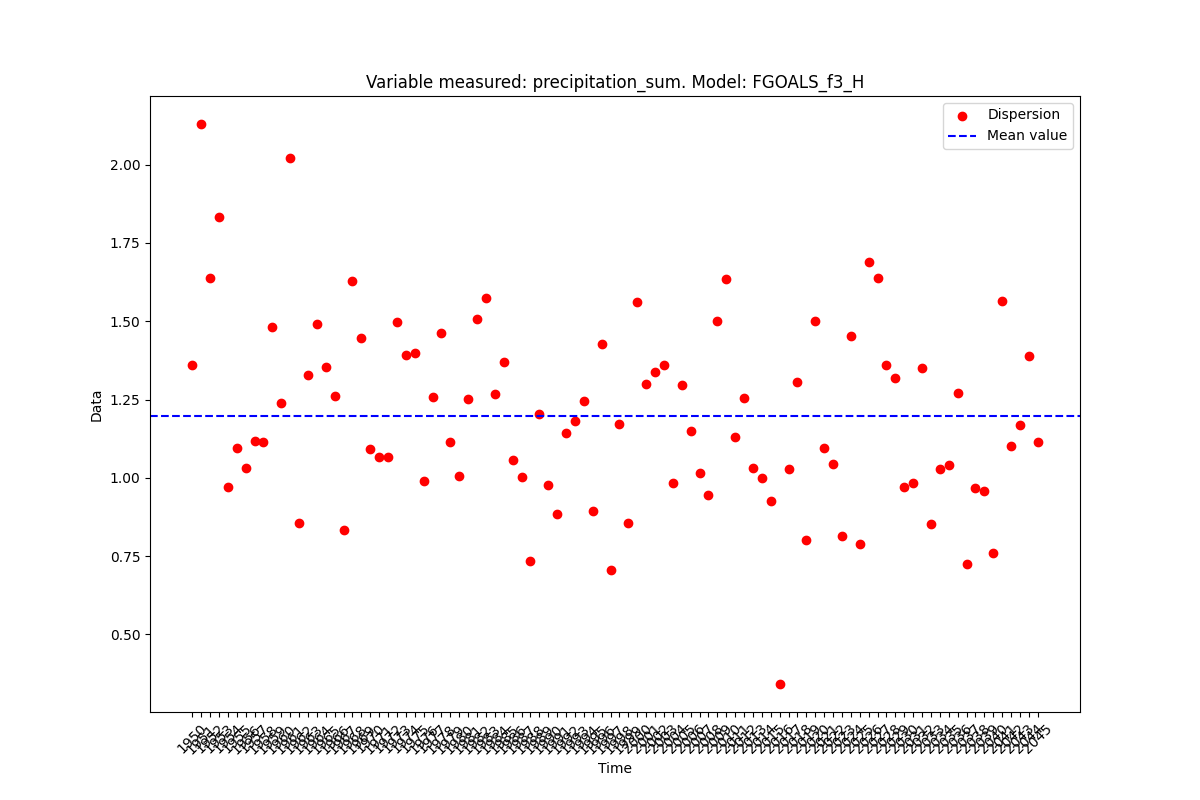
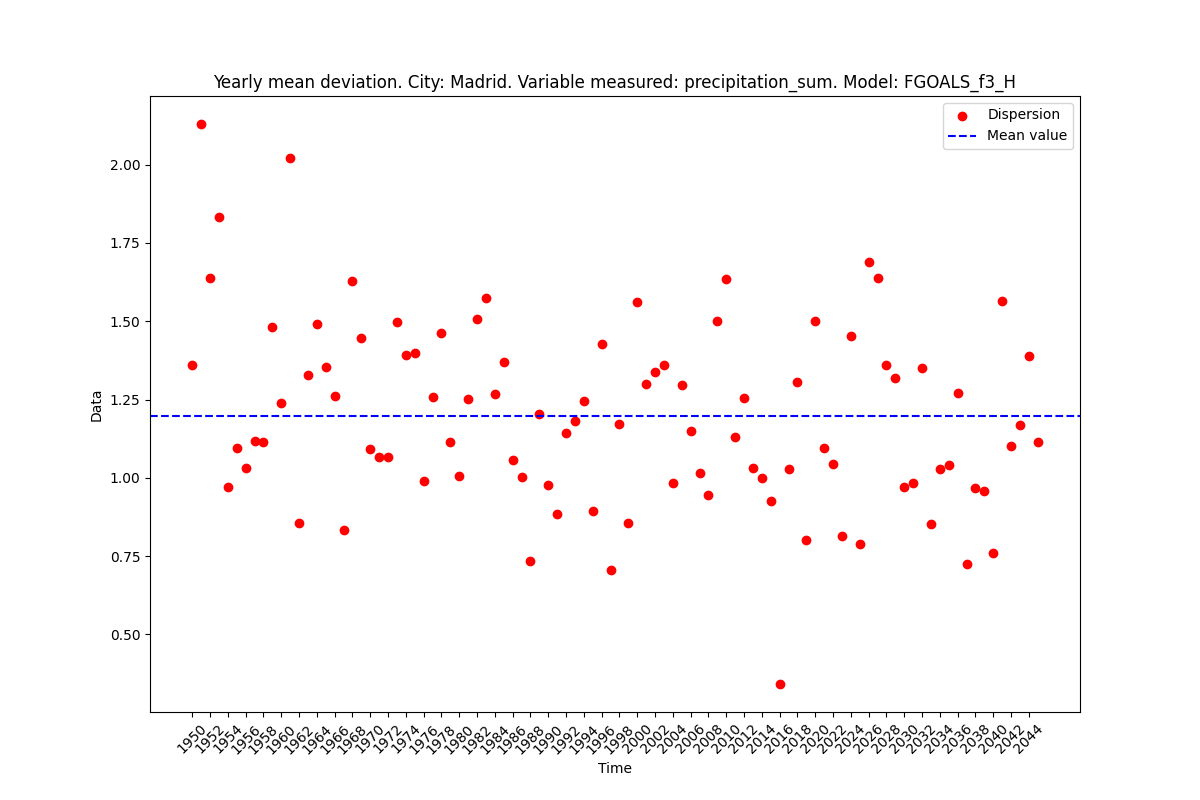
Plot files not added to github

Changed region(s): [[0.1542, 0.9062, 0.8942, 0.9375], [0.185, 0.0938, 0.8325, 0.125]]

diff --git a/src/module_1/module_1_meteo_api.py b/src/module_1/module_1_meteo_api.py
@@ -48,16 +48,25 @@ def plot_mean_and_std(mean_data, anual_mean_values, time, city, variable, model,
     y_values = anual_mean_values.values()
     x_values = anual_mean_values.keys()
 
+
+    init_year = int(list(x_values)[0].split("-")[0])
+    end_year = int(list(x_values)[-1].split("-")[0])
+
+    custom_x_labels = [str(year) for year in range(init_year, end_year, 2)]
+
     plt.figure(figsize=(12, 8))
     plt.scatter(x_values, y_values, label="Dispersion", color="r")
     plt.axhline(y=mean_data, color="b", linestyle="--", label="Mean value")
     plt.xlabel("Time")
     plt.ylabel("Data")
+    plt.xticks(fontsize=10)
     plt.xticks(rotation=45)
-    plt.title(f"Variable measured: {variable}. Model: {model}")
+    plt.xticks(custom_x_labels, custom_x_labels)
+    plt.title(f"Yearly mean deviation. City: {city}. Variable measured: {variable}. Model: {model}")
     pic_filename = f"{plot_folder}/{city}_{variable}_{model}.png"
     plt.legend()
     plt.savefig(pic_filename)
+    plt.close()
 
 
 def main():
@@ -78,37 +87,52 @@ def main():
         list_variables = VARIABLES.split(",")
         list_models = MODELS.split(",")
 
-        for variable, model in zip(list_variables, list_models):
+        for variable in list_variables:
+            for model in list_models:
 
-            data_key = f"{variable}_{model}"
+                #model = "CMCC_CM2_VHR4"
+                #variable = "soil_moisture_0_to_10cm_mean"
 
-            api_url = get_data_meteo_api(city, start_date, end_date)
+                print(model, variable)
 
-            response = api_request(api_url)
+                data_key = f"{variable}_{model}"
 
-            if response.status_code == 200:
-                data_dict = response.json()
-                data = data_dict["daily"][data_key]
-                time = data_dict["daily"]["time"]
-                mean_data = np.mean(data)
+                api_url = get_data_meteo_api(city, start_date, end_date)
 
-                sum_year_values = {}
-                count_year_values = {}
+                response = api_request(api_url)
 
-                for value,date in zip(data, time):
-                    year = date.split("-")[0] # Output: [2020, 01, 01]
+                if response.status_code == 200:
 
-                    if year in sum_year_values.keys():
-                        sum_year_values[year] += value
-                        count_year_values[year] +=1
+                    data_dict = response.json()
+                    data = data_dict["daily"][data_key]
+                    time = data_dict["daily"]["time"]
+                    try:
+                        mean_data = np.mean(data)
+                    except TypeError:
+                        print(f"{variable} for {model} does not exist. Skip")
+                        break
 
-                    else:
-                        sum_year_values[year] = value
-                        count_year_values[year] = 1
 
-                anual_mean_values = {year: (sum/count) for year, sum, count in zip(sum_year_values.keys(), sum_year_values.values(), count_year_values.values())} # yearly dispersion from mean
+                    sum_year_values = {}
+                    count_year_values = {}
 
-                plot_mean_and_std(mean_data, anual_mean_values, time, city, variable, model, plot_folder)
+                    for value,date in zip(data, time):
+                        year = date.split("-")[0] # Output: [2020, 01, 01]
+
+                        if year in sum_year_values.keys():
+                            sum_year_values[year] += value
+                            count_year_values[year] +=1
+
+                        else:
+                            sum_year_values[year] = value
+                            count_year_values[year] = 1
+
+                    anual_mean_values = {year: (sum/count) for year, sum, count in zip(sum_year_values.keys(), sum_year_values.values(), count_year_values.values())} # yearly dispersion from mean
+
+                    plot_mean_and_std(mean_data, anual_mean_values, time, city, variable, model, plot_folder)
+
+                else:
+                    print(response.status_code)
 
 
 if __name__ == "__main__":
